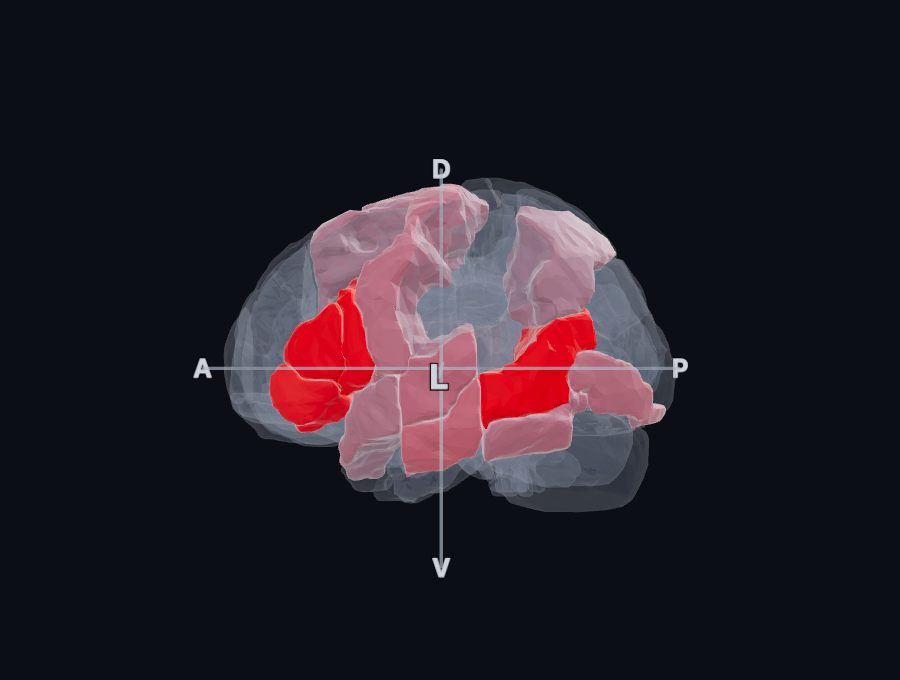
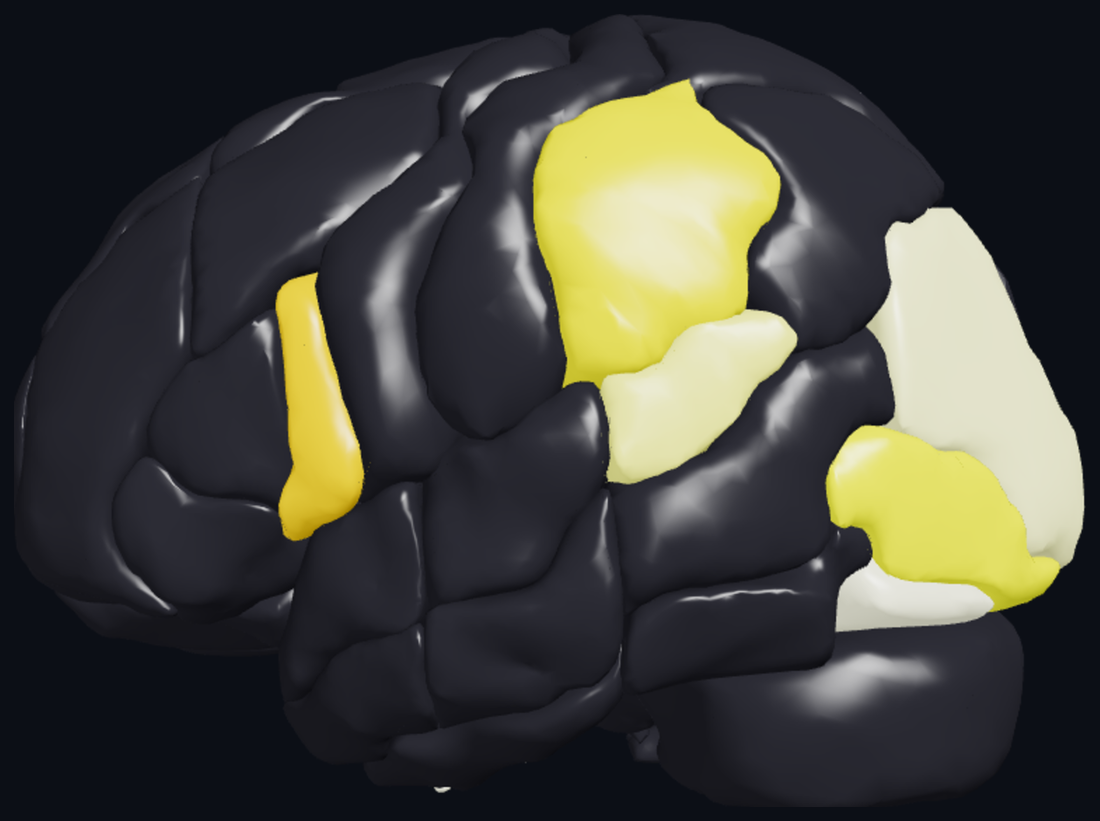
README: refresh graphics + split connectivity into DTI vs rs-fMRI
- Embed the recorded exploding-brain (aura) animation near the top.
- New hero banner (explode / aura / 16-atlas / fMRI) + refreshed AICHA,
  overlay, and multi-atlas screenshots — all from current renders.
- Atlases table now has separate DTI and rs-fMRI columns: measured (jhu,
  aicha = DTI; 7 atlases = rs-fMRI) vs estimated RS* (7 atlases via
  interpolate_conn.py), with a legend. DTI is never interpolated.
- Update Highlights, Connectivity feature detail, and credits to describe
  both structural (DTI) and functional (rs-fMRI) connectivity.

diff --git a/README.md b/README.md
@@ -8,6 +8,11 @@ draw DTI connectivity, and compose publication-ready figure panels — all in th
 
 ![hero](docs/img/hero.png)
 
+<p align="center">
+  <img src="docs/img/exploding_brain.gif" width="460" alt="exploding-brain animation recorded in brainWhiz"><br>
+  <em>Every region is its own 3-D object — explode it, light it up, orbit it. Recorded straight from the viewer (Figure ▸ Record MP4).</em>
+</p>
+
 > **Why "brainWhiz"?** There's a well-known finding ([McCabe & Castel, 2008, *Cognition*](https://doi.org/10.1016/j.cognition.2007.07.017))
 > that simply *adding a brain image* to a write-up makes the reasoning seem more credible — it
 > measurably nudged people toward believing (and editors toward publishing). It's the neuroscience
@@ -30,7 +35,7 @@ draw DTI connectivity, and compose publication-ready figure panels — all in th
 - **Volume rendering** — GLSL raymarch (MIP / Accumulate / MinIP / X-ray-DRR / Isosurface) of a map as glowing voxels **inside a glass brain**.
 - **White-matter tracts** — solid hulls *or* synthesized **fiber strands** (white, or DTI-orientation colored).
 - **Three view modes** — 3D mesh, ortho slices, mosaic/lightbox — with **28 colormaps** and TFCE.
-- **DTI connectivity** averaged across ABC participants — strength-sized cylinders, colormaps, pulsing flow, and arced 3D arrows.
+- **Connectivity, two kinds** — **DTI** structural (measured for JHU/AICHA) *and* **rs-fMRI** functional (measured for 7 atlases, estimated for 7 more); strength-sized cylinders, colormaps, pulsing flow, and arced 3D arrows. Switch DTI ↔ rs-fMRI per atlas.
 - **Projector** — cast an image / video / **webcam** onto the cortex; surface-conforming, shaped, **outlined decals**.
 - **🥔 PotatoHead** — paint realistic face features on a T1-derived head (MRI re-identification / privacy demo).
 - **Outputs** — PNG, **MP4/WebM recording**, a **🔗 living interactive `.html`** figure (rotate/zoom/explode), a **🎬 keyframe director → narrated MP4**, and multi-panel figure builder (PNG/PDF/SVG/`.bwz`).
@@ -88,26 +93,39 @@ Switch atlas with the **Atlas** dropdown or the URL: `index.html?atlas=jhu` (`aa
 
 ## Atlases (16 bundled)
 
-| id | atlas | ROIs | connectivity | task maps |
-|----|-------|-----:|:---:|:---:|
-| `jhu` | JHU (Johns Hopkins) | 189 | ✅ | ✅ |
-| `aicha` | AICHA | 384 | ✅ | ✅ |
-| `anatomy3` | SPM Anatomy v3 | 186 | – | ✅ |
-| `aal3` | AAL3 | 161 | – | ✅ |
-| `aalcat` | AAL (categorized) | 150 | – | ✅ |
-| `neuromorph` | Neuromorphometrics | 134 | – | ✅ |
-| `ho` | Harvard-Oxford | 117 | – | ✅ |
-| `aal` | AAL | 116 | – | ✅ |
-| `bro` | Brodmann | 82 | – | ✅ |
-| `lpba40` | LPBA40 | 56 | – | ✅ |
-| `cobra` | COBRA (subcortical/cerebellar) | 52 | – | ✅ |
-| `xtract` | XTRACT white-matter tracts | 42 | – | ✅ |
-| `arterial` | Arterial territories | 32 | – | ✅ |
-| `hammers` | Hammers | 95 | – | ✅ |
-| `catani` | Catani tracts | 27 | – | ✅ |
-| `fox` | Fox | 10 | – | ✅ |
+![16 atlases — JHU, AICHA, Harvard-Oxford, AAL, …](docs/img/multiatlas.png)
 
-All atlases are in MNI space. **Connectivity** exists only for `jhu` and `aicha` — those are the only atlases with DTI matrices in the source ABC participant data (`dti_jhu`/`dti_AICHA`). Overlays and task maps work for every atlas (sampled/resampled into each atlas's own grid).
+*Switch parcellation from the dropdown (or `?atlas=…`) — cortical, subcortical, white-matter tract and arterial atlases, all in MNI space.*
+
+| id | atlas | ROIs | DTI | rs-fMRI | task maps |
+|----|-------|-----:|:---:|:---:|:---:|
+| `jhu` | JHU (Johns Hopkins) | 189 | ✅ | ✅ | ✅ |
+| `aicha` | AICHA | 384 | ✅ | ✅ | ✅ |
+| `anatomy3` | SPM Anatomy v3 | 186 | – | RS\* | ✅ |
+| `aal3` | AAL3 | 161 | – | RS\* | ✅ |
+| `aalcat` | AAL (categorized) | 150 | – | ✅ | ✅ |
+| `neuromorph` | Neuromorphometrics | 134 | – | RS\* | ✅ |
+| `ho` | Harvard-Oxford | 117 | – | RS\* | ✅ |
+| `aal` | AAL | 116 | – | ✅ | ✅ |
+| `hammers` | Hammers | 95 | – | RS\* | ✅ |
+| `bro` | Brodmann | 82 | – | ✅ | ✅ |
+| `lpba40` | LPBA40 | 56 | – | RS\* | ✅ |
+| `cobra` | COBRA (subcortical/cerebellar) | 52 | – | RS\* | ✅ |
+| `xtract` | XTRACT white-matter tracts | 42 | – | – | ✅ |
+| `arterial` | Arterial territories | 32 | – | – | ✅ |
+| `catani` | Catani tracts | 27 | – | ✅ | ✅ |
+| `fox` | Fox | 10 | – | ✅ | ✅ |
+
+✅ = measured connectivity bundled · **RS\*** = rs-fMRI *estimated* by overlap-projection from the
+measured atlases ([`interpolate_conn.py`](interpolate_conn.py)) · – = none.
+
+All atlases are in MNI space. **DTI** (white-matter streamline) connectivity is measured only for
+`jhu` and `aicha` — the only atlases with DTI matrices in the source ABC participant data
+(`dti_jhu`/`dti_AICHA`); DTI is **never interpolated** (validated ~r≈0.1, unreliable). **rs-fMRI**
+functional connectivity is measured for **7 atlases** (`jhu`, `aicha`, `aal`, `aalcat`, `bro`,
+`catani`, `fox`) and **estimated (RS\*)** for 7 more by projecting the AICHA/JHU matrices through
+ROI overlap — useful as a prior, not a substitute for measured data. Overlays and task maps work
+for **every** atlas (sampled/resampled into each atlas's own grid).
 
 ---
 
@@ -123,7 +141,7 @@ All atlases are in MNI space. **Connectivity** exists only for `jhu` and `aicha`
 
 **Slices & Mosaic** — ortho viewer (axial/sagittal/coronal + 3D, click/drag to navigate, per-plane zoom; voxel heatmap or solid mesh cross-sections) and a publication-style **mosaic / lightbox** of evenly-spaced slices (choose plane, count, columns). Drop either into a figure panel.
 
-**Connectivity** — averaged DTI streamline strength; cylinder radius ∝ strength; color by strength (any colormap) or single color; **pulse** mode animates a bead of light traveling each connection.
+**Connectivity** — two networks per atlas: **DTI** averaged streamline strength (measured for `jhu`/`aicha`) and **rs-fMRI** functional correlation (measured for 7 atlases, overlap-estimated **RS\*** for 7 more). Pick the network, then threshold and style edges: cylinder radius ∝ strength; color by strength (any colormap) or single color; **pulse** mode animates a bead of light traveling each connection; arced 3-D arrows for directed views.
 
 **Render & shading** — a **45-look shading library** in the Shading menu (each with a thumbnail preview):
 Standard, Matcap, and **Cartoon** (MRIcroGL-style pink cel-shade + black inked folds), plus ~20
@@ -378,7 +396,7 @@ clinical use.
 ## Notes & credits
 
 - Task maps use **NeuroQuery** (the modern successor to Neurosynth); edit `NEURO_TERMS` in `build_bundle.py` to change them.
-- DTI connectivity is averaged from ABC-participant `.mat` files (`dti_jhu` / `dti_AICHA` fields).
+- **DTI** connectivity is averaged from ABC-participant `.mat` files (`dti_jhu` / `dti_AICHA` fields). **rs-fMRI** functional connectivity is bundled for 7 atlases; the **RS\*** atlases are *estimated* by projecting the measured AICHA/JHU matrices through ROI overlap ([`interpolate_conn.py`](interpolate_conn.py)) — a prior, not measured data. DTI is never interpolated.
 - Lobe grouping is a name-based heuristic for coloring, not a formal parcellation.
 
 🤖 Built with [Claude Code](https://claude.com/claude-code)